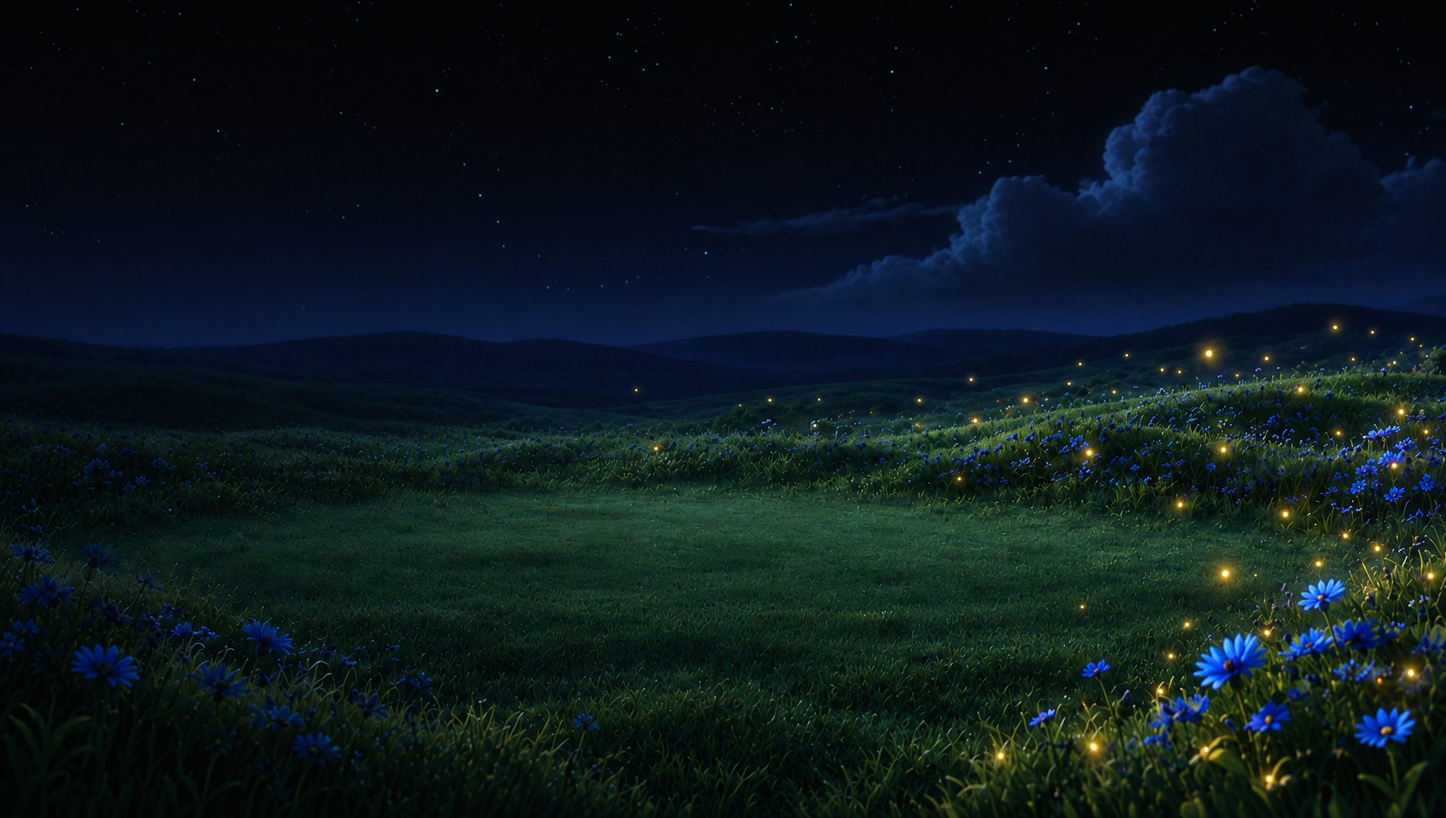
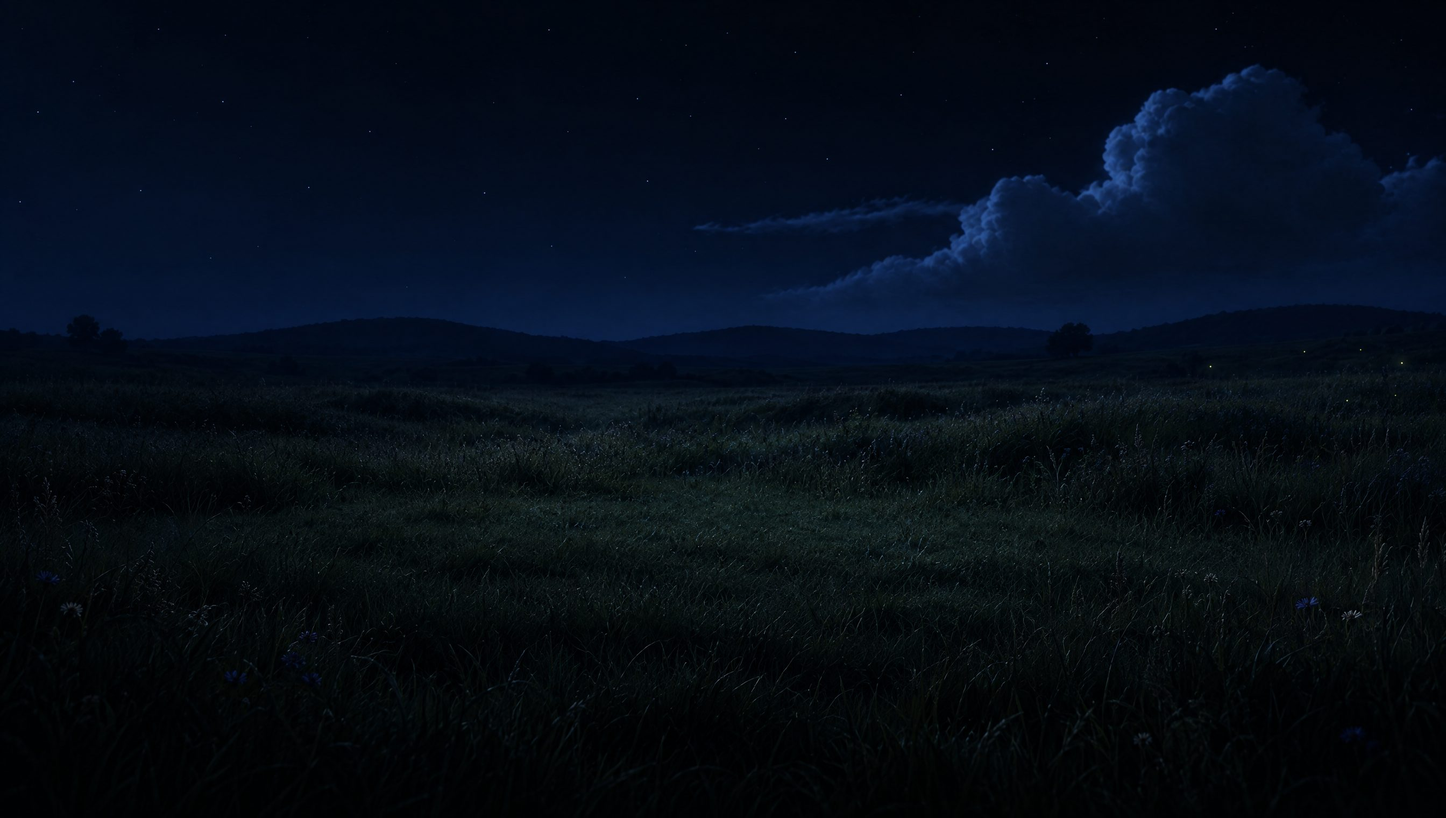
Night countryside instead of an enchanted meadow
Re-shot plate: ordinary tall grass, far hill silhouettes, half the stars,
a few faded flowers, foreground falling to near-black. New front strip of
plain tall grass climbing the base; a dense contact pool on the grass; the
niche keeps its full warm light plus a ~12% lift from the bulb. Page ground
takes the sky's navy (#030a18) — the warm near-black read as lilac.

diff --git a/app/globals.css b/app/globals.css
@@ -135,7 +135,10 @@ body > * { position: relative; z-index: 1; }
 }
 
 :root[data-scene="studio"] { --bg: #ece3d0; --scene-ground: #c5b496; }
-[data-theme="dark"][data-scene="studio"] { --bg: #171412; --scene-ground: #322b22; }
+/* Night: the page takes the sky's own navy, so the plate's top fade lands on the
+   colour it is fading from. The warm near-black it had before mixed with the
+   navy into a lilac haze across the top and down the left column. */
+[data-theme="dark"][data-scene="studio"] { --bg: #030a18; --scene-ground: #322b22; }
 
 /* The scene is deliberately wider and taller than the window — the sweep plate
    is 240% of the case, one shadow layer is 124%, and the floor under the plate
@@ -237,7 +240,12 @@ body > * { position: relative; z-index: 1; }
   background-image: url("/scene/night-meadow.jpg");
   background-blend-mode: normal;
 }
-[data-theme="dark"][data-scene="studio"] { --scene-ground: #0e1d14; }
+[data-theme="dark"][data-scene="studio"] { --scene-ground: #060d0b; }
+/* The grain and the ambient wash paint on <body>, under the opaque <main>, so
+   on the home page they only ever showed in the strip below it — where, over
+   a near-black field, they lifted the ground into a grey band. */
+[data-theme="dark"][data-scene="studio"] body::before,
+[data-theme="dark"][data-scene="studio"] body::after { display: none; }
 
 /* ── Time-of-day ambient wash (set via data-daytime on <html>) ── */
 :root { --ambient: transparent; }
@@ -1158,23 +1166,67 @@ body::after {
 }
 [data-theme="dark"] .case-moonlight { opacity: 1; }
 
+/* Outside cold, inside warm. The niche is the one place the night grade does
+   not reach: the doll's clip keeps its full light, and a warm wash from the
+   bulb lifts it a further ~12% — so the case reads as a lit room in a dark
+   field rather than as one more dimmed object. Rect and bulb position are
+   NicheLight's (40.62 / 11.43 / 18.16%, bulb at 48.7% × 6.4%). */
+[data-theme="dark"] .case-stage .niche-clip { filter: none; }
+.niche-warmth {
+  position: absolute;
+  left: 40.62%;
+  top: 11.43%;
+  width: 18.16%;
+  aspect-ratio: 648 / 1664;
+  z-index: 4;
+  pointer-events: none;
+  mix-blend-mode: screen;
+  opacity: 0;
+  transition: opacity 0.7s ease;
+  background: radial-gradient(90% 70% at 48.7% 6.4%, rgba(255, 176, 96, 0.16), rgba(255, 176, 96, 0.06) 55%, rgba(255, 176, 96, 0) 85%);
+}
+[data-theme="dark"] .niche-warmth { opacity: 1; }
+
+/* Contact on grass. The four studio shadow layers were tuned for pale paper
+   and read as a faint plum smear on the meadow; at night a dense, near-black
+   pool sits under the trunk's base and both feet, so the grass in front of it
+   has something to be in front of. */
+.case-night-contact {
+  position: absolute;
+  left: 50%;
+  transform: translateX(-50%);
+  bottom: 3.5%;
+  width: 90%;
+  height: 7%;
+  z-index: 0;
+  pointer-events: none;
+  display: none;
+  background:
+    radial-gradient(8% 60% at 5% 60%, rgba(2, 6, 4, 0.9), rgba(2, 6, 4, 0) 100%),
+    radial-gradient(10% 60% at 96% 55%, rgba(2, 6, 4, 0.9), rgba(2, 6, 4, 0) 100%),
+    radial-gradient(52% 70% at 50% 45%, rgba(2, 6, 4, 0.82), rgba(2, 6, 4, 0) 100%);
+  filter: blur(6px);
+}
+[data-theme="dark"] .case-night-contact { display: block; }
+
 /* Grass in front of the case, so at night it stands IN the meadow rather than
-   on it. A generated strip on transparency (night-grass.webp, 1920×553), in
-   front of everything in the stage and click-through. Geometry, in the box's
-   own percentages: 116% wide at the strip's aspect is 50.1% of the box's
-   height; the low grass in the middle tops out 64.3% down the strip, and that
-   is set at 89% of the box — just over the trunk's base (88.1%) and short of
-   the feet (92.9%), so the base sinks into the grass while the tall clumps at
-   the ends climb the doors. top = 89 - 0.643 × 50.1 = 56.8%. The strip's
-   bottom edge is a hard cut, so it fades out into the photographed floor. */
+   on it. A generated strip of ordinary tall field grass on transparency
+   (night-grass.webp, 1920×657), in front of everything in the stage and
+   click-through. Geometry, in the box's own percentages: 116% wide at the
+   strip's aspect is 59.5% of the box's height; the grass in the middle tops
+   out a median 48.4% down the strip, and that is set at 87% of the box — just
+   above the trunk's base (88.1%), so the base sinks into it, while single
+   blades climb onto the lower drawers and the tall clumps at the ends climb
+   the doors. top = 87 - 0.484 × 59.5 = 58.2%. The strip's bottom edge is a
+   hard cut, so it fades out into the photographed floor. */
 .case-grass {
   display: none;
   position: absolute;
   left: 50%;
   transform: translateX(-50%);
-  top: 56.8%;
+  top: 58.2%;
   width: 116%;
-  aspect-ratio: 1920 / 553;
+  aspect-ratio: 1920 / 657;
   background: url("/scene/night-grass.webp") center / 100% 100% no-repeat;
   /* Faded on three sides: the bottom into the floor, and both ends, which
      would otherwise stand as hard vertical cuts in the meadow. */
@@ -1186,8 +1238,6 @@ body::after {
     linear-gradient(180deg, #000 74%, transparent 100%),
     linear-gradient(90deg, transparent 0%, #000 14%, #000 86%, transparent 100%);
   mask-composite: intersect;
-  /* Generated a touch brighter and bluer than the plate behind it. */
-  filter: brightness(0.82) saturate(0.85);
   pointer-events: none;
   z-index: 8;
 }

diff --git a/app/page.tsx b/app/page.tsx
@@ -491,7 +491,9 @@ export default function Home() {
         />
         {/* Moonlight on the case body, dark theme only — see .case-moonlight. */}
         <div className="case-moonlight" aria-hidden />
-        {/* Meadow grass in front of the case, dark theme only — see .case-grass. */}
+        {/* Night only: the niche's warm light and the contact pool on grass. */}
+        <div className="niche-warmth" aria-hidden />
+        <div className="case-night-contact" aria-hidden />        {/* Meadow grass in front of the case, dark theme only — see .case-grass. */}
         <div className="case-grass" aria-hidden />
 
         {/* The award, in the top-left cubby — and the way in to Recognition.
